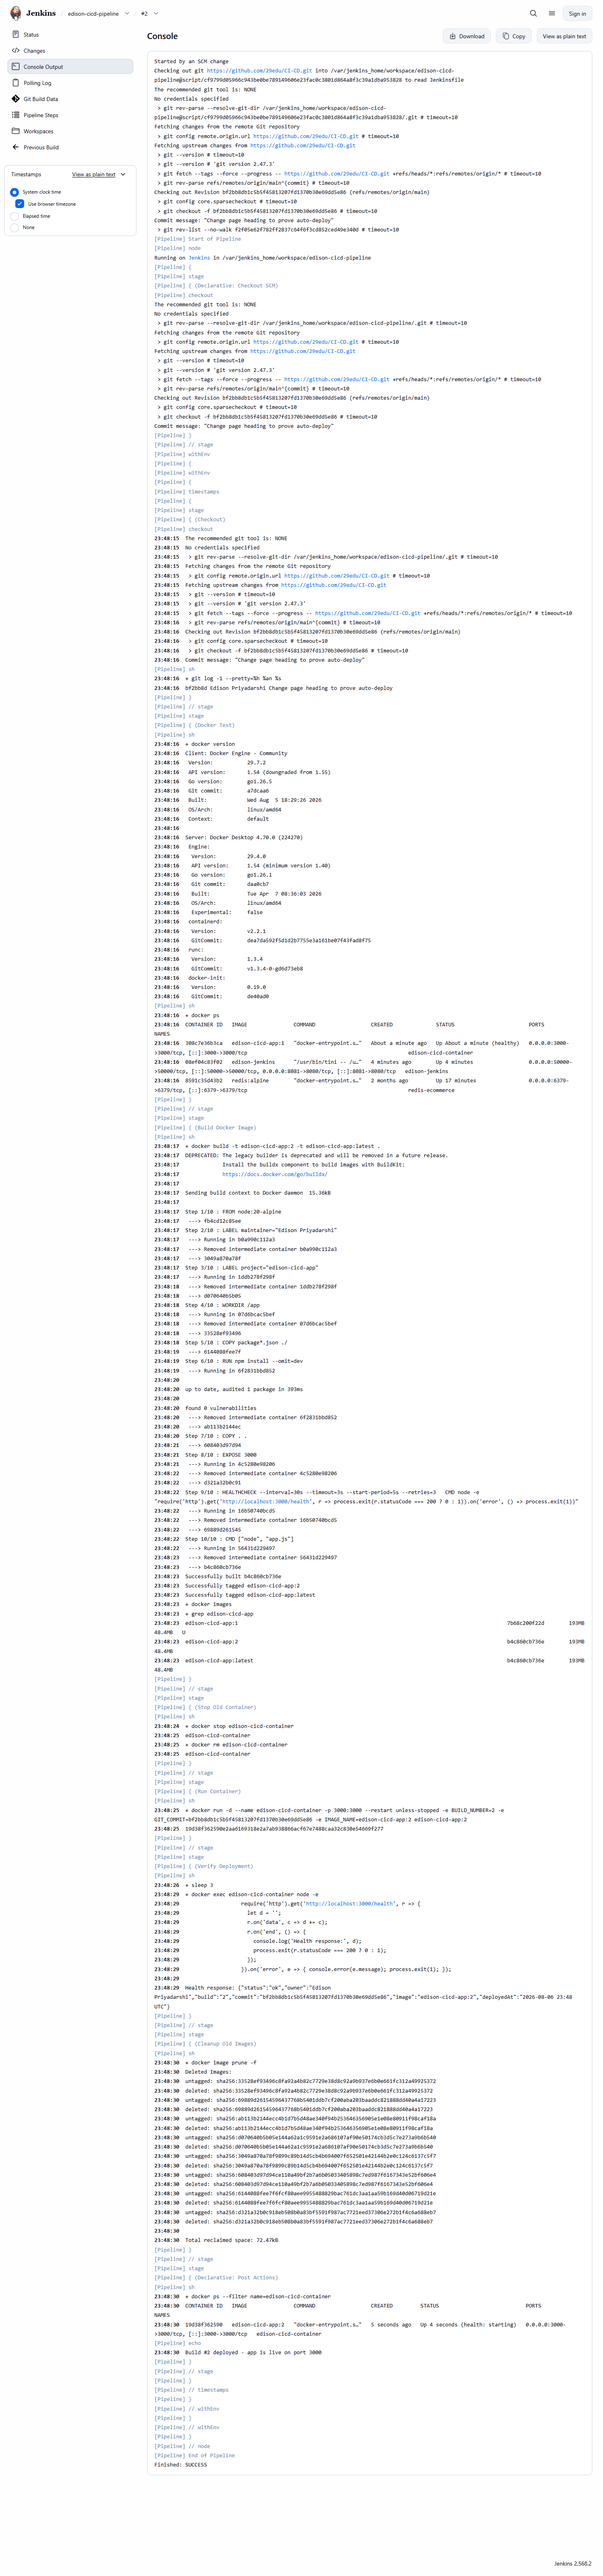
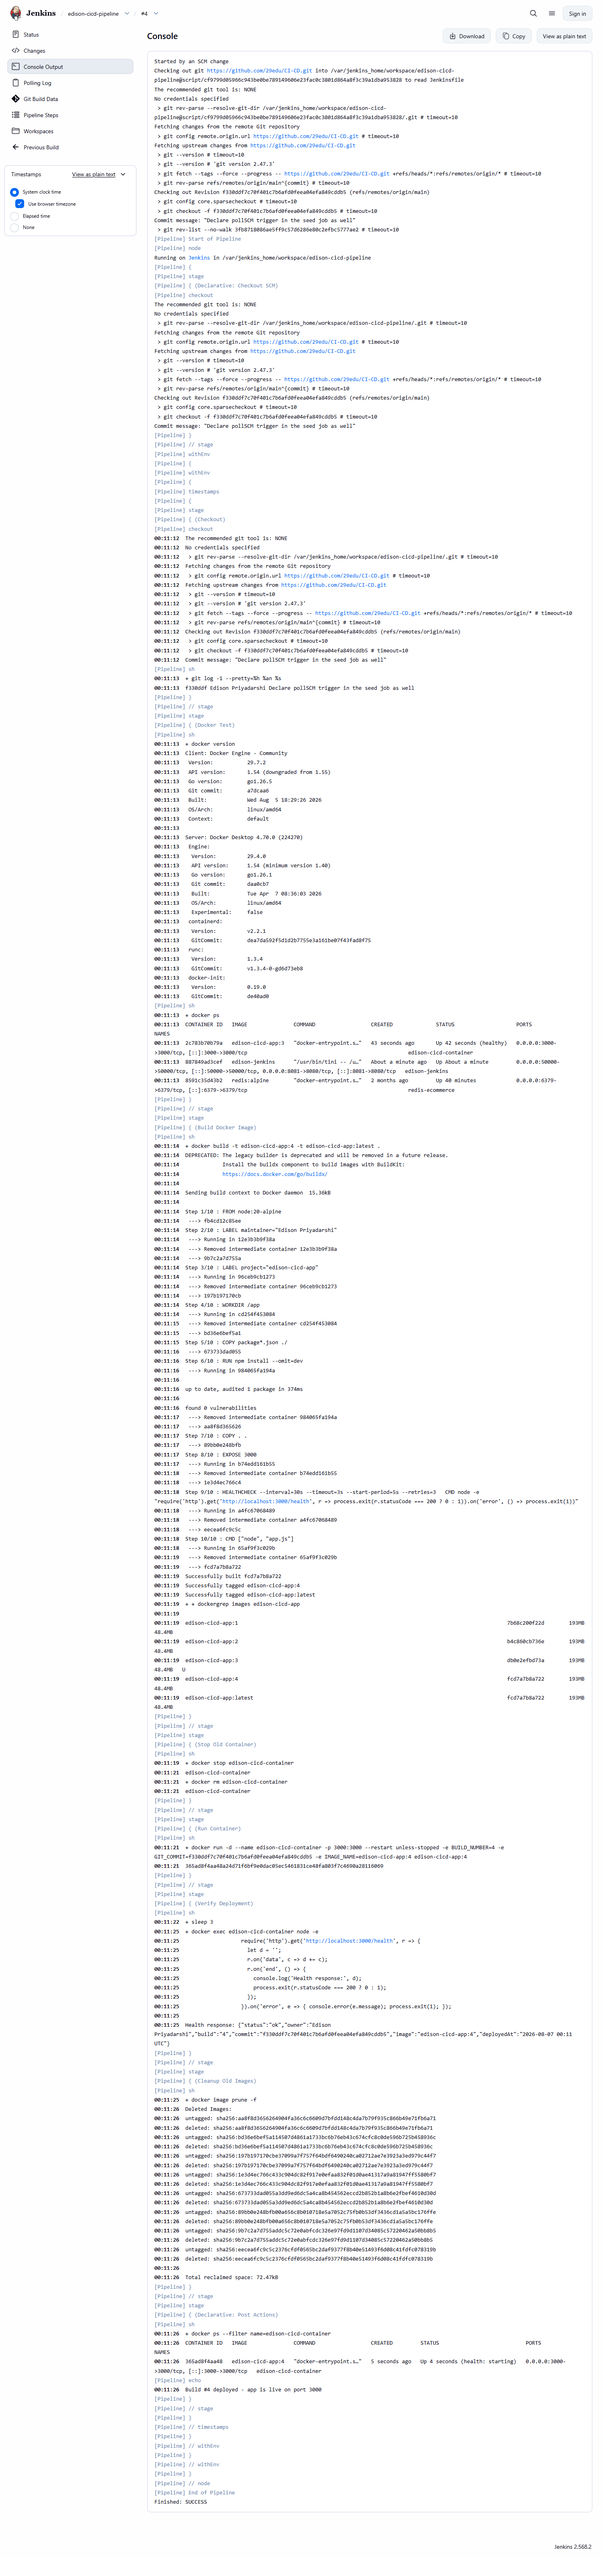
Refresh screenshots after the trigger fix
Recaptured at build #4. The stage view now shows #2, #3 and #4 each
started by polling, with only #1 started by hand.

diff --git a/README.md b/README.md
@@ -203,22 +203,23 @@ the exact image tag it is running.
 
 ### Pipeline stage view
 
-Both builds green across all seven stages. Build **#2** shows *1 commit* —
-that is the auto-triggered run.
+Four builds, green across all seven stages. Only **#1** was started by hand —
+**#2**, **#3** and **#4** each show *1 commit*, meaning polling picked up a
+push and ran them on its own.
 
 ![Jenkins stage view](screenshots/01-jenkins-pipeline-overview.png)
 
 ### Proof of automatic deployment
 
-Build **#2** was **"Started by an SCM change"** — nobody pressed *Build Now*.
+Build **#4** was **"Started by an SCM change"** — nobody pressed *Build Now*.
 A commit was pushed to GitHub, `pollSCM` noticed it within a minute, and the
-pipeline rebuilt and redeployed on its own.
+pipeline rebuilt the image and replaced the running container on its own.
 
 ![Auto-deploy proof](screenshots/04-auto-deploy-proof.png)
 
 ### Build console
 
-Full console output of build #2, ending in `Finished: SUCCESS`.
+Full console output of build #4, ending in `Finished: SUCCESS`.
 
 ![Jenkins console output](screenshots/02-jenkins-build-console.png)
 
@@ -229,13 +230,16 @@ Raw `docker ps` / `docker images` output is kept as text in
 greppable and verifiable:
 
 ```
-CONTAINER ID   IMAGE               STATUS                   PORTS                      NAMES
-25365de50aad   edison-jenkins      Up 6 minutes             0.0.0.0:8081->8080/tcp     edison-jenkins
-19d38f362590   edison-cicd-app:2   Up 9 minutes (healthy)   0.0.0.0:3000->3000/tcp     edison-cicd-container
+NAMES                   IMAGE               STATUS
+edison-cicd-container   edison-cicd-app:4   Up (healthy)   0.0.0.0:3000->3000/tcp
+edison-jenkins          edison-jenkins      Up             0.0.0.0:8081->8080/tcp
 
-IMAGE                    ID             DISK USAGE   CONTENT SIZE
-edison-cicd-app:1        7b68c200f22d        193MB         48.4MB
-edison-cicd-app:2        b4c860cb736e        193MB         48.4MB
-edison-cicd-app:latest   b4c860cb736e        193MB         48.4MB
-edison-jenkins:latest    0378bbb908a2       1.05GB          386MB
+edison-cicd-app:4        fcd7a7b8a722   <- currently deployed
+edison-cicd-app:latest   fcd7a7b8a722
+edison-cicd-app:3        db0e2efbd73a
+edison-cicd-app:2        b4c860cb736e
+edison-cicd-app:1        7b68c200f22d
 ```
+
+One image per build, with `:latest` tracking the newest — so any build can be
+rolled back to by tag.
